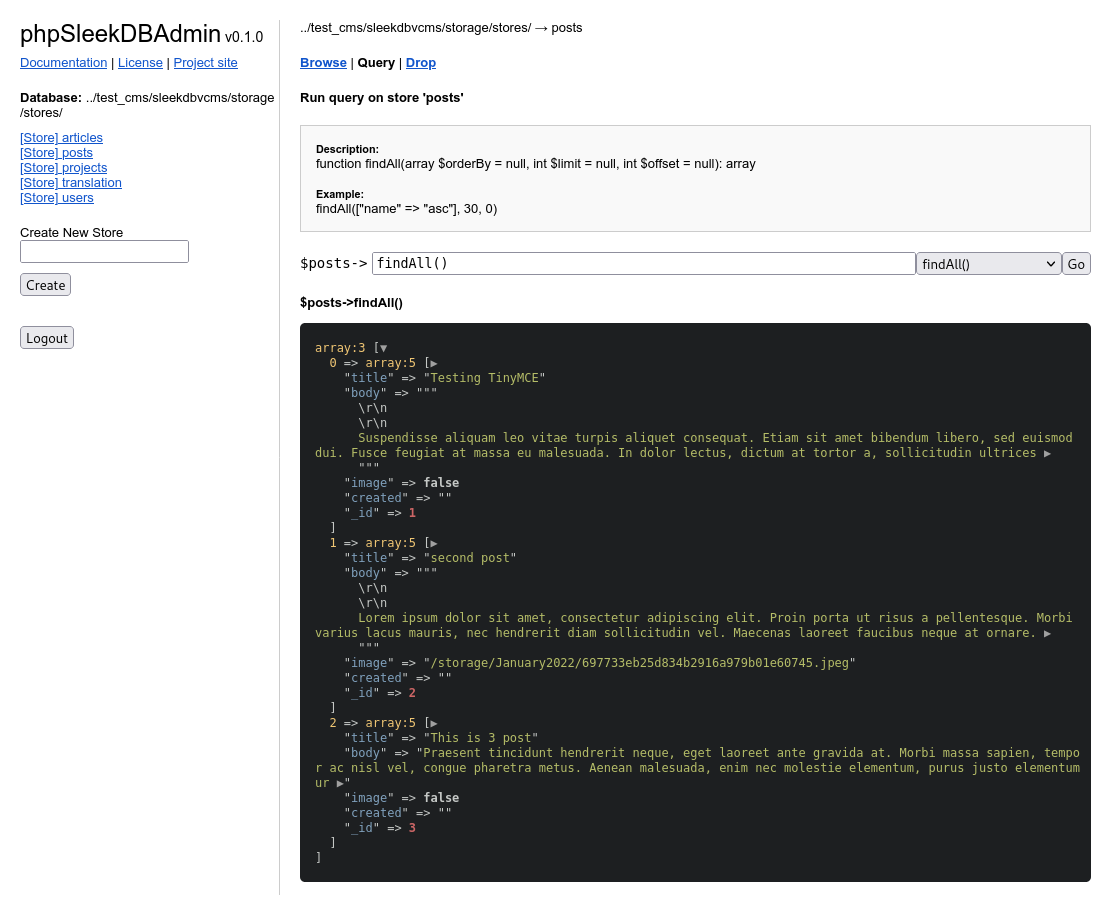
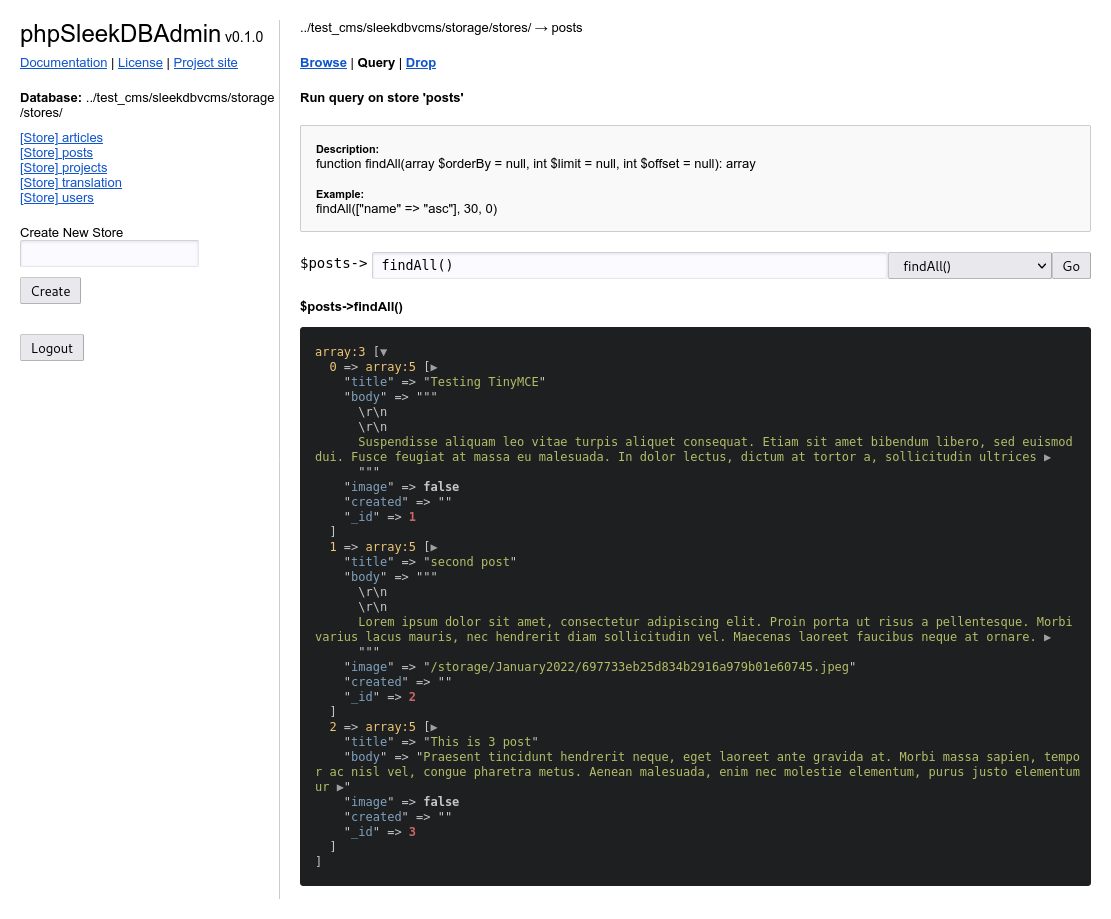
CSS fixes and new screenshot.png

diff --git a/phpsleekdbadmin.php b/phpsleekdbadmin.php
@@ -311,7 +311,7 @@ function render_view_query() {
           margin-bottom: -5px;
         }
       </style>
-      <pre style="padding-left: 10px; background-color: #1d1f21; border-radius: 5px;"><!--
+      <pre style="padding-left: 10px; background-color: #1d1f21; border-radius: 3px;"><!--
         --><?php dump($data); ?><!--
         --><script>
           // Expand all by default
@@ -603,6 +603,23 @@ function render_css() {
 
       input {
         font-family: monospace;
+        background: #FBFBFF;
+        display: inline-block;
+        height: 27px;
+        line-height: 27px;
+        margin: 0;
+        padding: 0 8px;
+        vertical-align: middle;
+        border: 1px solid #FFF;
+        border-top-color: rgb(255, 255, 255);
+        border-right-color: rgb(255, 255, 255);
+        border-bottom-color: rgb(255, 255, 255);
+        border-left-color: rgb(255, 255, 255);
+        border-color: #D2D2DC #E6E6F0 #E6E6F0 #D2D2DC;
+        -webkit-box-shadow: inset 0 1px 2px rgba(0,0,0,0.1);
+        -moz-box-shadow: inset 0 1px 2px rgba(0,0,0,0.1);
+        box-shadow: inset 0 1px 2px rgba(0,0,0,0.1);
+        border-radius: 2px;
       }
 
       hr {
@@ -617,6 +634,22 @@ function render_css() {
 
       a:hover {
         color: #00A;
+      }
+
+      button, select {
+        cursor: pointer;
+        vertical-align: middle;
+        display: inline-block;
+        margin: 0;
+        outline: none;
+        border: 1px solid #C8C8C8;
+        border-right-color: rgb(200, 200, 200);
+        border-bottom-color: rgb(200, 200, 200);
+        border-bottom-color: #B4B4B4;
+        border-right-color: #AAAAAA;
+        height: 27px;
+        padding: 0 10px;
+        border-radius: 2px;
       }
 
       .margins {
@@ -650,6 +683,7 @@ function render_css() {
         padding: 15px;
         background: #f9f9f9;
         border: 1px solid #ccc;
+        border-radius: 2px;
       }
     </style>
   <?php
